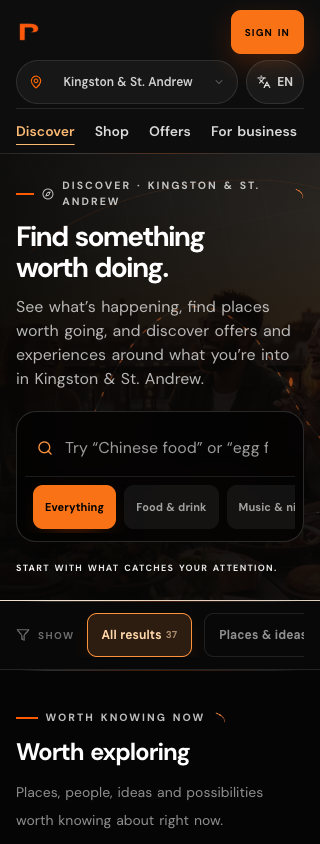
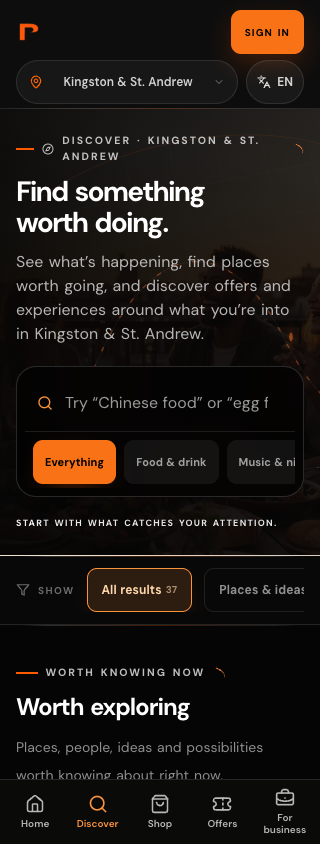
test: verify mobile UX with current navigation shell

diff --git a/apps/web/src/components/marketing/PublicMarketHome.test.tsx b/apps/web/src/components/marketing/PublicMarketHome.test.tsx
@@ -63,9 +63,8 @@ describe("public entrance", () => {
     expect(screen.getByText("Find your next thing in Kingston & St. Andrew.")).toBeInTheDocument();
     expect(screen.queryByRole("link", { name: /start.*scene/i })).not.toBeInTheDocument();
     expect(screen.getByRole("heading", { name: "Make your next plan worth it." })).toBeInTheDocument();
-    const mobile = screen.getByRole("navigation", { name: "Primary navigation" });
-    expect(mobile.querySelector('a[href="/live"]')).toHaveTextContent("Events");
-    expect(mobile.querySelector('a[href="/discover?tab=wants"]')).toHaveTextContent("Ask");
+    // AppLayout owns public navigation; this page must not add a second bar.
+    expect(screen.queryByRole("navigation", { name: "Primary navigation" })).not.toBeInTheDocument();
     expect(screen.getByRole("link", { name: "Create my account" })).toHaveAttribute("href", "/auth?mode=signup&role=participant&next=/card");
   });
 });

diff --git a/docs/qa/mobile-ux/README.md b/docs/qa/mobile-ux/README.md
@@ -1,6 +1,6 @@
 # Promorang mobile UX audit and verification
 
-Baseline: `5485d7342` (`main`). Branch: `codex/mobile-ux-consolidation`.
+Visual/typecheck baseline: `5485d7342`. Integrated the subsequent main navigation fix `7125bc8c7` before final verification. Branch: `codex/mobile-ux-consolidation`.
 
 This is an incremental public-web pass. The original checkout's uncommitted material/design work was preserved in its own checkout and is not included here.
 
@@ -41,7 +41,7 @@ Implemented in phases: fix intrinsic sizing/header/card; compact home/discovery;
 
 `PublicHomeBar` serves marketing/public discovery pages; `Header`, `DashboardLayout` and `ParticipantWorldLayout` serve other contexts. These are role-dependent shells, not duplicates that can safely be deleted. Location and language continue using their existing contexts and Radix menus. Home's category links, Discover's interest/result filters and Shop's category routes remain operational.
 
-Navigation recommendation: retain Discover, Shop, Offers and For business for this pass. Keep Home reachable via the logo and account/card via the account control. Do not introduce generic Saved or Take Part tabs: their relevant functions are distributed across authenticated card/moment workflows, and replacing routes would need a separate role-aware information architecture test. Business remains accessible in the current nav pending that test.
+Navigation recommendation: retain Discover, Shop, Offers and For business for this pass. Keep Home reachable via the logo and the fixed mobile bar, and account/card via the account control. Do not introduce generic Saved or Take Part tabs: their relevant functions are distributed across authenticated card/moment workflows, and replacing routes would need a separate role-aware information architecture test. Business remains accessible in the current nav pending that test. The navigation fix merged on main during implementation is retained: one fixed mobile bar, safe-area padding, footer clearance and hiding while an input has focus. The header navigation is tablet/desktop only, avoiding duplicate mobile navigation.
 
 ## Implementation inventory
 
@@ -49,7 +49,7 @@ Navigation recommendation: retain Discover, Shop, Offers and For business for th
 - Discovery and card: `PublicDiscoverExperience.tsx`, `PromoCardObject.tsx`, scoped rules in `index.css`.
 - Home: `PublicMarketHome.tsx`, `PublicMarketHome.css`, localized shorter copy in `catalog-more.ts`.
 - Commerce/business: `Marketplace.tsx`, `SolutionsHub.tsx`, English/Spanish/Portuguese Shop copy in `translations.ts`.
-- Tests: new `PublicHomeBar.test.tsx`; revised Shop copy expectations; scoped clipboard-error assertion in `MyPromoCard.test.tsx` to its dialog rather than an unrelated background progress status.
+- Tests: new `PublicHomeBar.test.tsx`; revised Shop copy expectations and the Home assertion for shell-owned navigation; scoped clipboard-error assertion in `MyPromoCard.test.tsx` to its dialog rather than an unrelated background progress status.
 - Reusable browser verification: `apps/web/scripts/verify-mobile-ux.cjs`.
 
 No database, auth, payment, deployment configuration, or package dependencies changed. No inventory, rewards or engagement metrics were added.
@@ -58,14 +58,15 @@ No database, auth, payment, deployment configuration, or package dependencies ch
 
 - Production build: **passed**, including localized SEO snapshots; existing large chunk warning remains (largest reported chunk approximately 1.66 MB before gzip).
 - ESLint: **passed with 118 warnings, zero errors**.
-- TypeScript: **fails with 547 diagnostics**. An untouched archive of the baseline commit reports the same 547 diagnostics; normalized diagnostic comparison found no additions or removals. Existing failures include generated data-model mismatches and shared types.
-- Targeted Vitest suite: **49/49 passed across seven files**; covers public home, navigation, marketplace copy, PromoCard face/gateway/journey and auth roles/locales.
+- TypeScript: **fails with 547 diagnostics**. An untouched archive of the baseline commit reports the same 547 diagnostics; normalized diagnostic comparison found no additions or removals, including after integrating main. The first post-merge compiler process crashed; the bundled Node runtime retry completed with the same diagnostics. Existing failures include generated data-model mismatches and shared types.
+- Targeted Vitest verification: **78 tests covered across nine files**. The original seven-file suite passed 49/49. After integrating main, the expanded run passed 77/78 with one 20-second timeout in MyPromoCard; its isolated rerun passed all 10 tests in 1.2 seconds of test time. No assertion failures remain. The expanded run uses one worker, the threads pool and a 20-second timeout. Coverage includes public home, shell/navigation ownership, marketplace copy, PromoCard face/gateway/journey and auth roles/locales.
 - Chrome responsive matrix: **54/54 passed** across six surfaces × 320, 360, 375, 390, 414, 430, 768, 1024 and 1440px. Checks page width, content bounds and card internal dimensions. Intentional scroll containers and decorative SVG artwork are excluded from content-bounds assertions.
 - Public interactions: **passed** for Discover category selection/clear search, location search/menu fit, language menu, Shop search/category, bag destination, business outcome CTA and PromoCard signup return destination.
+- Main navigation regression script: **passed** browser/standalone emulation, fixed footer clearance, Back/Forward/reload, focused-input dismissal, Escape, auth and desktop checks.
 - JavaScript page errors during the final browser run: **none**. Expected missing-backend/network diagnostics are not treated as a successful data-loading test.
 - `git diff --check`: passed.
 
-At 390px, measured Discover hero height changed from approximately 589px to 384px, and search moved from y≈475px to y≈374px. Home's mobile headline changed from 43px to 31px. These are layout measurements, not performance or comprehension claims.
+At 390px, measured Discover hero height changed from approximately 589px to 384px. Home's mobile headline changed from 43px to 31px. These are layout measurements, not performance or comprehension claims.
 
 ### Reproduce browser checks
 
